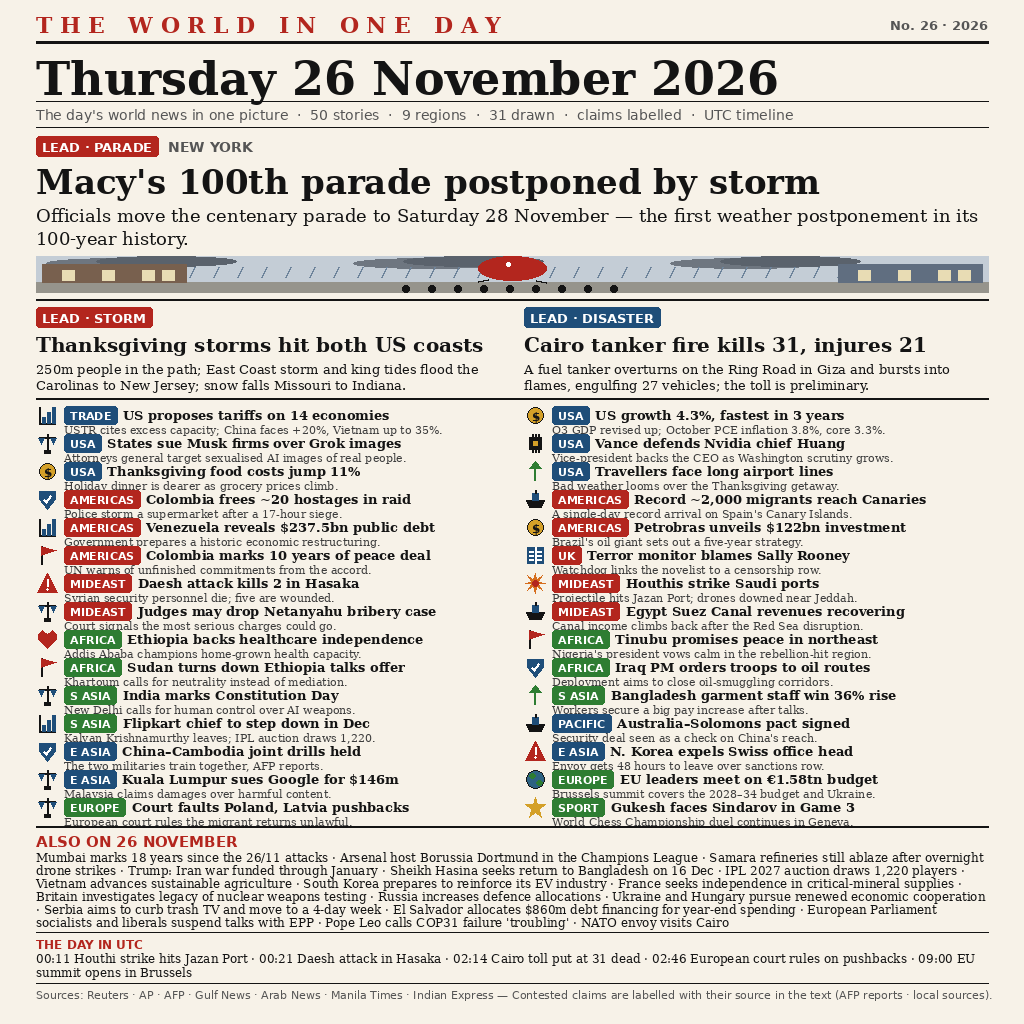
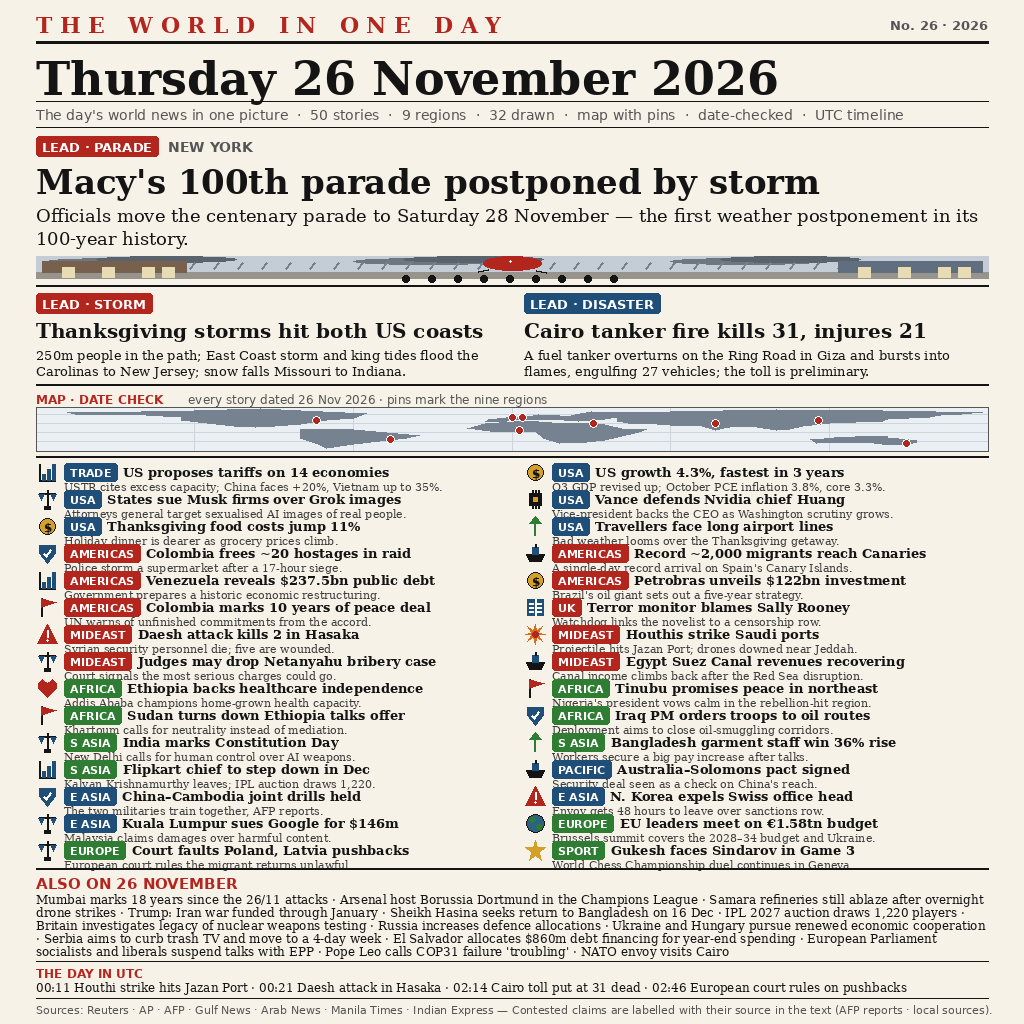
v3: world map with pins + date check (32 drawn), tighter briefs

diff --git a/render.py b/render.py
@@ -2,9 +2,10 @@
 """Render the 26 November 2026 front page (1024x1024).
 
 Fifty stories that happened, or were first reported, on Thursday
-26 November 2026 in any time zone, across nine regions, with thirty-one
-drawn pictures (a lead scene plus thirty pictograms), a UTC timeline of
-the day's verified times, and attribution on contested claims. Heroes:
+26 November 2026 in any time zone, across nine regions, with thirty-two
+drawn pictures (a lead scene, thirty pictograms and a world map with
+pins marking the nine regions), a date check, a UTC timeline of the
+day's verified times, and attribution on contested claims. Heroes:
 the Macy's centenary parade postponed by the Thanksgiving storm (the
 first weather postponement in its hundred-year history), the storm
 itself, and the Cairo tanker fire that killed thirty-one people.
@@ -14,10 +15,10 @@ continuing 26 November development, fires still burning. Every story
 was re-checked against 26 November reporting.
 
 The page is drawn with PIL only (no network, deterministic): masthead,
-date, three leads with a drawn lead illustration, thirty briefs and a
-seventeen-item "Also on 26 November" strip, then a UTC timeline and
-sources. Stories live in data tables at the bottom of this file; the
-renderer above them is generic.
+date, three leads with a drawn lead illustration, thirty briefs, a world
+map with pins and a date check, and a fourteen-item "Also on 26 November"
+strip, then a UTC timeline and sources. Stories live in data tables at
+the bottom of this file; the renderer above them is generic.
 
 Run: python3 render.py  -> writes entry.png next to this file.
 """
@@ -252,6 +253,71 @@ def parade_scene(draw, x, y, w, h):
         draw.ellipse([px, street_y + 3, px + 7, street_y + 10], fill=COLORS["ink"])
 
 
+# ---- world map: coarse continent outlines in (lon, lat), drawn on an
+# equirectangular projection so the nine regions can be pinned. ----
+CONTINENTS = [
+    # North America
+    [(-168, 66), (-140, 70), (-120, 72), (-95, 80), (-80, 73), (-55, 62),
+     (-60, 47), (-70, 42), (-75, 35), (-80, 26), (-90, 21), (-97, 16),
+     (-105, 20), (-115, 30), (-125, 40), (-125, 49), (-145, 60), (-165, 60)],
+    # South America
+    [(-80, 10), (-60, 10), (-35, -8), (-40, -20), (-50, -30), (-60, -38),
+     (-70, -52), (-73, -40), (-80, -20), (-80, -5)],
+    # Africa
+    [(-17, 15), (-10, 30), (0, 36), (10, 37), (20, 32), (30, 31), (35, 28),
+     (43, 12), (51, 11), (48, 0), (40, -15), (35, -25), (28, -33), (18, -35),
+     (12, -18), (9, 4), (-8, 5)],
+    # Europe
+    [(-10, 36), (-9, 43), (-2, 49), (0, 51), (5, 53), (8, 57), (10, 59),
+     (18, 56), (21, 55), (24, 60), (30, 70), (40, 68), (45, 60), (40, 50),
+     (35, 45), (30, 40), (25, 36), (20, 40), (12, 44), (8, 44), (3, 43),
+     (-2, 37)],
+    # Asia
+    [(40, 68), (60, 70), (80, 73), (100, 76), (120, 73), (140, 72),
+     (160, 70), (178, 66), (170, 60), (162, 56), (158, 50), (142, 45),
+     (140, 38), (130, 35), (127, 33), (120, 30), (110, 20), (105, 10),
+     (100, 8), (95, 15), (90, 22), (85, 20), (80, 15), (77, 8), (72, 20),
+     (66, 25), (60, 25), (55, 26), (50, 30), (48, 30), (44, 29), (40, 36)],
+    # Australia
+    [(113, -22), (114, -30), (115, -35), (124, -33), (132, -32), (137, -35),
+     (140, -38), (145, -38), (150, -37), (153, -32), (153, -27), (150, -22),
+     (146, -19), (142, -15), (142, -11), (137, -12), (135, -12), (132, -11),
+     (130, -13), (126, -14), (122, -17), (118, -20)],
+]
+
+# One pin per region: (lon, lat) of the story's place.
+PINS = [(-74, 41), (-46, -23), (0, 51), (4, 51), (31, 30), (3, 7),
+        (77, 29), (116, 40), (149, -35)]
+
+
+def draw_map(draw, x, y, w, h):
+    """A small world map with a pin on each of the nine regions."""
+    sea = (234, 239, 244)
+    land = (118, 130, 143)
+    grid = (205, 212, 220)
+    draw.rectangle([x, y, x + w, y + h], fill=sea)
+
+    def proj(lon, lat):
+        px = x + (lon + 180) / 360.0 * w
+        py = y + (85 - lat) / 145.0 * h
+        return (px, py)
+
+    # graticule so the strip reads as a map, not a stripe
+    for lon in range(-120, 181, 60):
+        gx, _ = proj(lon, 0)
+        draw.line([(gx, y), (gx, y + h)], fill=grid, width=1)
+    for lat in (60, 30, 0, -30):
+        _, gy = proj(0, lat)
+        draw.line([(x, gy), (x + w, gy)], fill=grid, width=1)
+    for poly in CONTINENTS:
+        draw.polygon([proj(lon, lat) for lon, lat in poly], fill=land)
+    for lon, lat in PINS:
+        px, py = proj(lon, lat)
+        draw.ellipse([px - 4, py - 4, px + 4, py + 4], fill=COLORS["red"],
+                     outline=COLORS["white"], width=1)
+    draw.rectangle([x, y, x + w, y + h], outline=COLORS["grey"], width=1)
+
+
 # ---- the day's stories: (region, colour, headline, dek, icon) ----
 LEAD_ONE = ("LEAD · PARADE", "red", "NEW YORK",
             "Macy's 100th parade postponed by storm",
@@ -336,9 +402,7 @@ ALSO = ("Mumbai marks 18 years since the 26/11 attacks · Arsenal host "
         "still ablaze after overnight drone strikes · Trump: Iran war "
         "funded through January · Sheikh Hasina seeks return to "
         "Bangladesh on 16 Dec · IPL 2027 auction draws 1,220 players · "
-        "Vietnam advances sustainable agriculture · South Korea prepares "
-        "to reinforce its EV industry · France seeks independence in "
-        "critical-mineral supplies · Britain investigates legacy of "
+        "Britain investigates legacy of "
         "nuclear weapons testing · Russia increases defence allocations · "
         "Ukraine and Hungary pursue renewed economic cooperation · Serbia "
         "aims to curb trash TV and move to a 4-day week · El Salvador "
@@ -348,7 +412,7 @@ ALSO = ("Mumbai marks 18 years since the 26/11 attacks · Arsenal host "
 
 TIMELINE = ("00:11 Houthi strike hits Jazan Port  ·  00:21 Daesh attack in "
            "Hasaka  ·  02:14 Cairo toll put at 31 dead  ·  02:46 European "
-           "court rules on pushbacks  ·  09:00 EU summit opens in Brussels")
+           "court rules on pushbacks")
 
 FOOTNOTE = ("Sources: Reuters · AP · AFP · Gulf News · Arab News · "
             "Manila Times · Indian Express — Contested claims are labelled "
@@ -379,7 +443,7 @@ def render_page():
     y += 5
     d.text((EDGE, y),
            "The day's world news in one picture  ·  50 stories  ·  9 regions  ·  "
-           "31 drawn  ·  claims labelled  ·  UTC timeline",
+           "32 drawn  ·  map with pins  ·  date-checked  ·  UTC timeline",
            font=load_font("sans", 14), fill=COLORS["grey"])
     y += 20
     y = hline(d, y, 1)
@@ -397,8 +461,8 @@ def render_page():
     y = paint_lines(d, flow_text(d, dek, load_font("serif", 18), BODY_W),
                     load_font("serif", 18), EDGE, y, 23)
     y += 5
-    parade_scene(d, EDGE, y, BODY_W, 36)
-    y += 36 + 7
+    parade_scene(d, EDGE, y, BODY_W, 22)
+    y += 22 + 7
     y = hline(d, y, 2)
     y += 6
 
@@ -420,9 +484,21 @@ def render_page():
     y = hline(d, y, 2)
     y += 6
 
+    # ---- world map + date check ----
+    d.text((EDGE, y), "MAP · DATE CHECK", font=load_font("sans_b", 12),
+           fill=COLORS["red"])
+    d.text((EDGE + 152, y),
+           "every story dated 26 Nov 2026 · pins mark the nine regions",
+           font=load_font("sans", 12), fill=COLORS["grey"])
+    y += 15
+    draw_map(d, EDGE, y, BODY_W, 44)
+    y += 44 + 5
+    y = hline(d, y, 2)
+    y += 5
+
     # ---- 30 briefs, 2 columns x 15 rows ----
     assert len(BRIEFS) == 30, f"briefs: {len(BRIEFS)}"
-    row_h = 28
+    row_h = 27
     for r in range(15):
         for c in range(2):
             tg, col, head, dk, icon = BRIEFS[r * 2 + c]

diff --git a/README.md b/README.md
@@ -6,7 +6,7 @@
 
 [![reward](https://make.fun/badge/news-image-20261126/rren7975-cell/news-image-20261126/reward.svg)](https://make.fun/bounty/news-image-20261126?utm_source=github&utm_medium=readme&utm_campaign=news-image-20261126)
 
-One image that sums up Thursday 26 November 2026: a 1024×1024 newspaper front page, "The World in One Day", with three lead stories, thirty briefs, a seventeen-item "Also on 26 November" strip and a UTC timeline — fifty stories in all, across nine regions, with thirty-one drawn pictures (a lead scene plus thirty pictograms).
+One image that sums up Thursday 26 November 2026: a 1024×1024 newspaper front page, "The World in One Day", with three lead stories, thirty briefs, a fourteen-item "Also on 26 November" strip and a UTC timeline — fifty stories in all, across nine regions, with thirty-two drawn pictures (a lead scene, thirty pictograms and a world map with pins marking the nine regions), plus a date check.
 
 ## How to run it
 
@@ -23,9 +23,9 @@ The lead, with a drawn parade-in-the-rain illustration: Macy's 100th parade is p
 
 The thirty briefs cover: the US proposing tariffs on 14 economies (USTR, China +20%); US growth of 4.3%, the fastest in 3 years (Q3 GDP revised up; October PCE 3.8%, core 3.3%); US states suing Musk firms over sexualised Grok images; Vance defending Nvidia chief Huang; Thanksgiving food costs jumping 11%; travellers facing long airport lines; Colombia freeing ~20 hostages in a supermarket raid after a 17-hour siege; a record ~2,000 migrants reaching the Canary Islands in a day; Venezuela revealing $237.5bn of public debt; Petrobras unveiling a $122bn investment plan; Colombia marking 10 years since the peace deal; a UK terrorism monitor blaming Sally Rooney; a Daesh attack killing 2 in Hasaka; Houthis striking Saudi ports; judges possibly dropping Netanyahu's bribery charges; Egypt's Suez Canal revenues recovering; Ethiopia backing healthcare independence; Tinubu promising peace in Nigeria's northeast; Sudan turning down Ethiopia's talks offer; Iraq's PM ordering troops to oil-smuggling routes; India marking Constitution Day and calling for human control over AI weapons; Bangladesh garment staff winning a 36% rise; Flipkart's chief stepping down in December; Australia and the Solomon Islands signing a security pact; China–Cambodia joint drills; North Korea expelling the Swiss office head; Kuala Lumpur suing Google for $146m; EU leaders meeting in Brussels on a €1.58tn budget; a European court faulting Poland and Latvia over migrant pushbacks; and Gukesh facing Sindarov in World Chess Championship Game 3.
 
-Also on 26 November: Mumbai marking 18 years since the 26/11 attacks; Arsenal hosting Borussia Dortmund in the Champions League; Samara refineries still ablaze after overnight drone strikes; Trump saying the Iran war is funded through January; Sheikh Hasina seeking return to Bangladesh on 16 Dec; the IPL 2027 auction drawing 1,220 players; Vietnam advancing sustainable agriculture; South Korea preparing to reinforce its EV industry; France seeking independence in critical-mineral supplies; Britain investigating the legacy of nuclear weapons testing; Russia increasing defence allocations; Ukraine and Hungary pursuing renewed economic cooperation; Serbia aiming to curb trash TV and move to a 4-day week; El Salvador allocating $860m in debt financing; European Parliament socialists and liberals suspending talks with the EPP; Pope Leo calling the COP31 failure "troubling"; and a NATO envoy visiting Cairo.
+Also on 26 November: Mumbai marking 18 years since the 26/11 attacks; Arsenal hosting Borussia Dortmund in the Champions League; Samara refineries still ablaze after overnight drone strikes; Trump saying the Iran war is funded through January; Sheikh Hasina seeking return to Bangladesh on 16 Dec; the IPL 2027 auction drawing 1,220 players; Britain investigating the legacy of nuclear weapons testing; Russia increasing defence allocations; Ukraine and Hungary pursuing renewed economic cooperation; Serbia aiming to curb trash TV and move to a 4-day week; El Salvador allocating $860m in debt financing; European Parliament socialists and liberals suspending talks with the EPP; Pope Leo calling the COP31 failure "troubling"; and a NATO envoy visiting Cairo.
 
-The day in UTC: 00:11 Houthi strike hits Jazan Port · 00:21 Daesh attack in Hasaka · 02:14 Cairo toll put at 31 dead · 02:46 European court rules on pushbacks · 09:00 EU summit opens in Brussels.
+The day in UTC: 00:11 Houthi strike hits Jazan Port · 00:21 Daesh attack in Hasaka · 02:14 Cairo toll put at 31 dead · 02:46 European court rules on pushbacks.
 
 ## Sourcing
 
